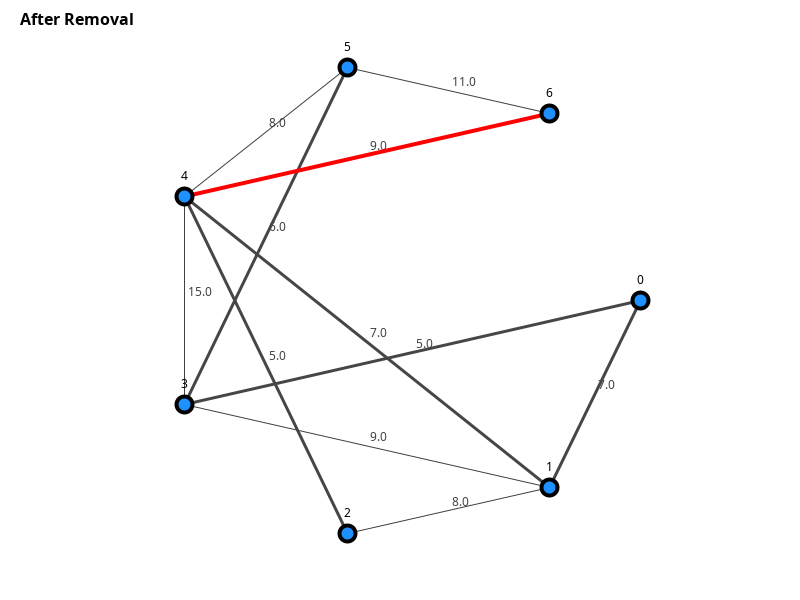
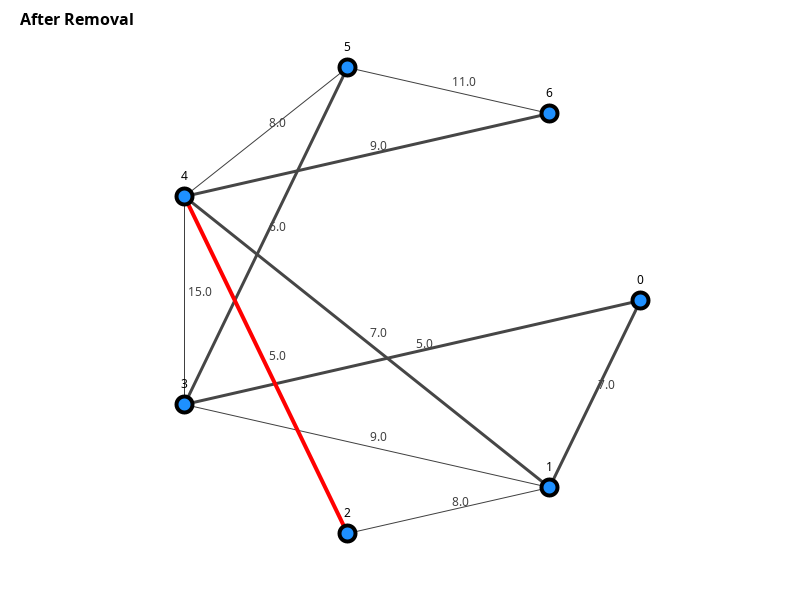
feat:added random edge removing, Readme

diff --git a/app/Main.java b/app/Main.java
@@ -26,8 +26,12 @@ public class Main {
         System.out.println("Total MST weight = " + totalWeight);
         System.out.println();
 
-        // 2. Choose edge to remove (here: heaviest edge in MST)
-        Edge removed = Collections.max(mst, Comparator.comparingDouble(e -> e.w));
+        // 2. RANDOMLY choose an edge to remove from the MST
+        Random random = new Random(); // you can pass a seed e.g. new Random(42) for reproducible runs
+        int removeIndex = random.nextInt(mst.size());
+        Edge removed = mst.get(removeIndex);
+
+        System.out.println("Randomly selected edge index in MST: " + removeIndex);
         System.out.println("Removed edge from MST: " + removed);
 
         // 3. Components after removal
@@ -44,7 +48,7 @@ public class Main {
         }
         System.out.println();
 
-        // 4. Find replacement edge
+        // 4. Find replacement edge (lightest edge connecting different components)
         Edge replacement = MSTUtils.findReplacementEdge(g, comp);
         if (replacement == null) {
             System.out.println("No replacement edge found (graph disconnected).");
@@ -96,7 +100,7 @@ public class Main {
                 width,
                 height);
 
-        // Stage 3: MST after removal
+        // Stage 3: MST after random removal
         List<Edge> mstAfterRemoval = new ArrayList<>(mst);
         mstAfterRemoval.remove(removed);
         GraphRenderer.saveStageImage(

diff --git a/README.md b/README.md
@@ -1,1 +1,54 @@
-# aitu-daa-bonus
+# MST Edge Removal & Replacement
+
+## Overview
+
+This program constructs a **Minimum Spanning Tree (MST)** from a weighted graph using **Kruskal’s algorithm**.
+After building the MST, it:
+
+* **Randomly removes** one MST edge
+* Detects the two components created by the removal
+* Finds the **best replacement edge** (the lightest edge reconnecting the components)
+* Builds the updated MST
+* Generates **PNG images** showing each stage of the process
+
+Removed edges are visualized in **red**, and replacement edges in **green**.
+
+---
+
+## Input
+
+The graph is defined directly in the code.
+No external input files are required.
+You can freely modify the list of edges to test different graphs.
+
+---
+
+## Output
+
+The program produces four image files:
+
+* `1_original.png` — the full original graph
+* `2_mst.png` — the minimum spanning tree
+* `3_after_removal.png` — MST after removing a random edge
+* `4_new_mst.png` — the updated MST with the replacement edge
+
+A graphical window also displays the final MST.
+
+---
+
+## Random Removal & Best Replacement
+
+* One MST edge is chosen **at random** each run.
+* The program finds the **minimum-weight valid edge** that reconnects the separated components.
+* This guarantees the resulting structure remains a correct MST.
+
+---
+
+## How to Run
+
+```
+javac -d out $(find . -name "*.java")
+java -cp out mst.app.Main
+```
+
+---
